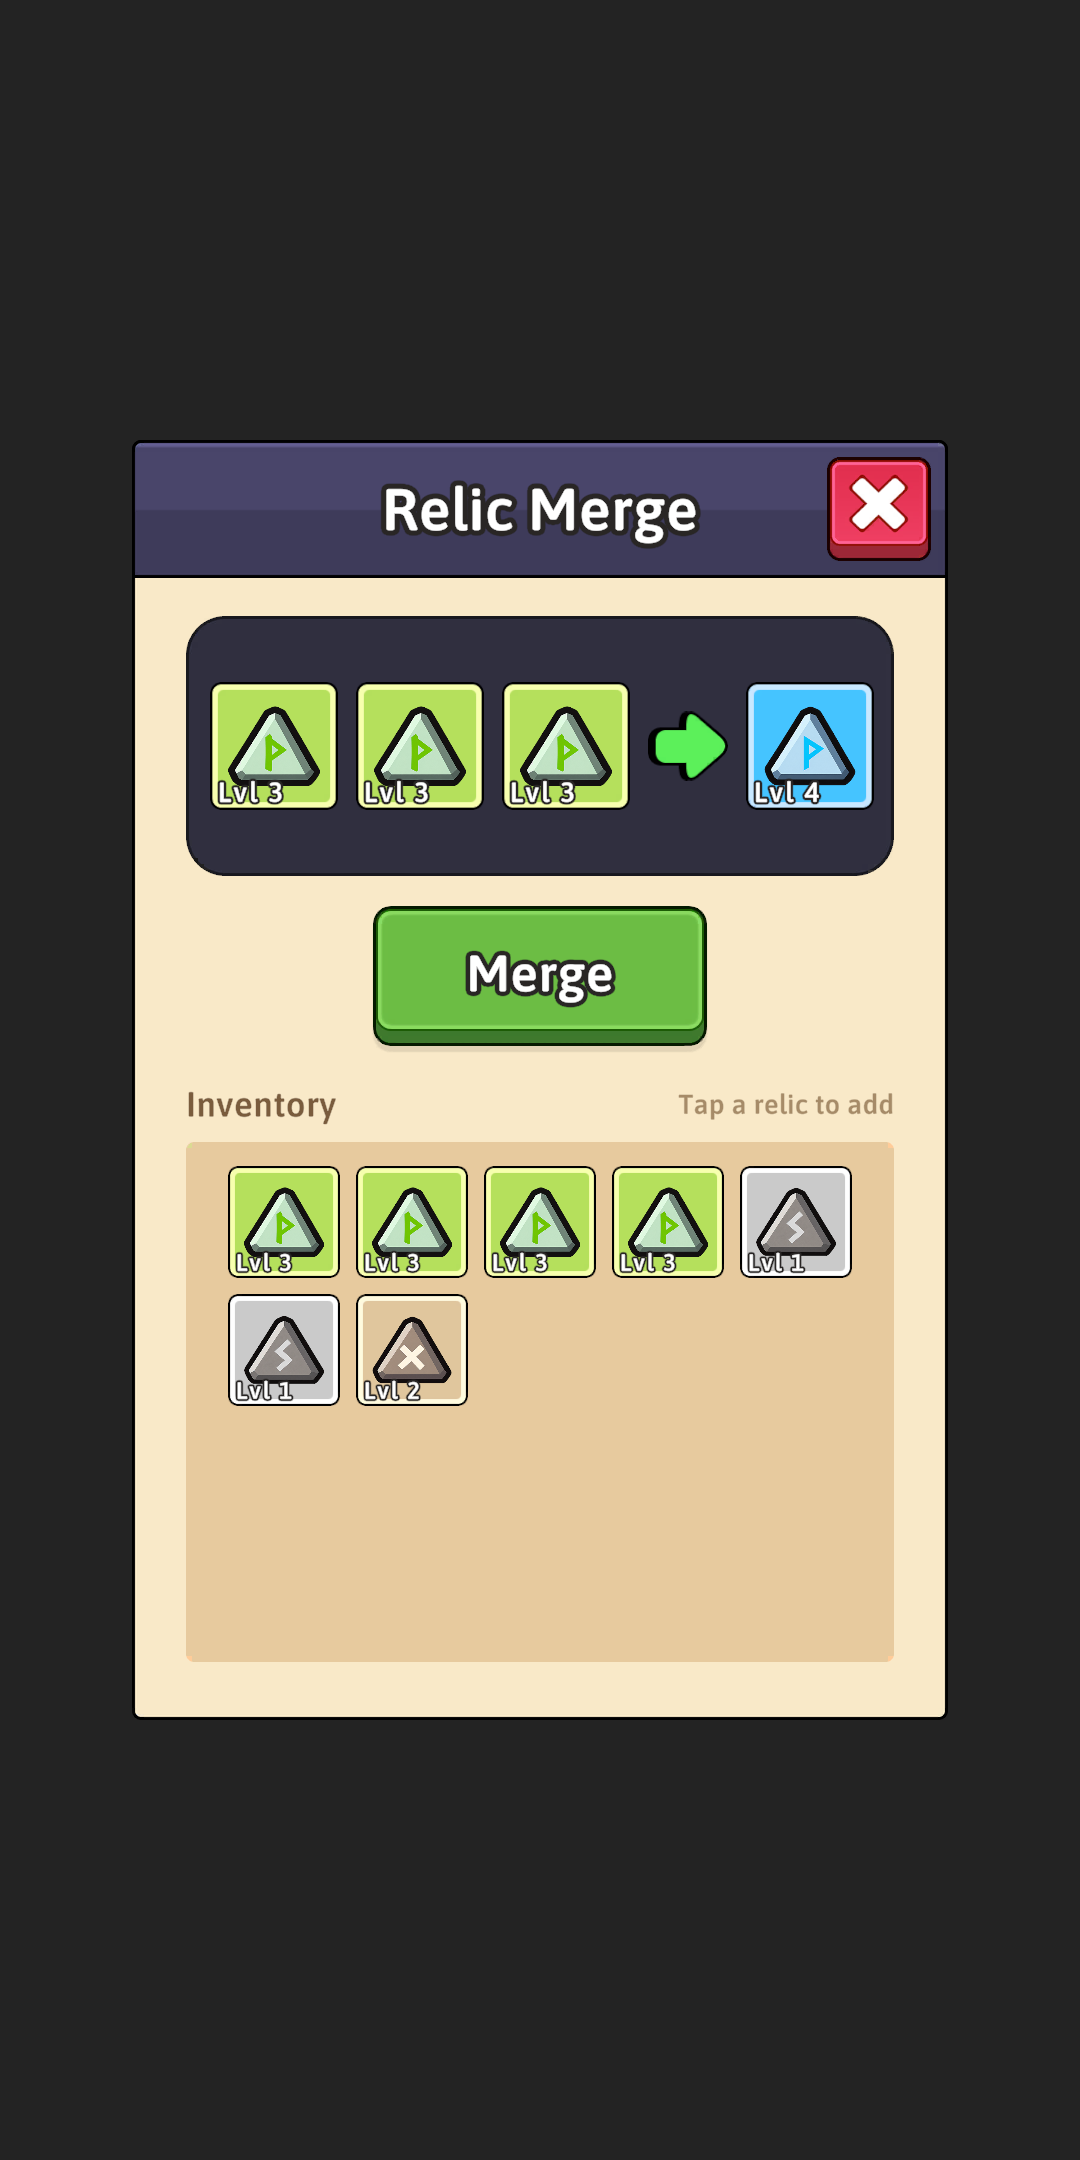
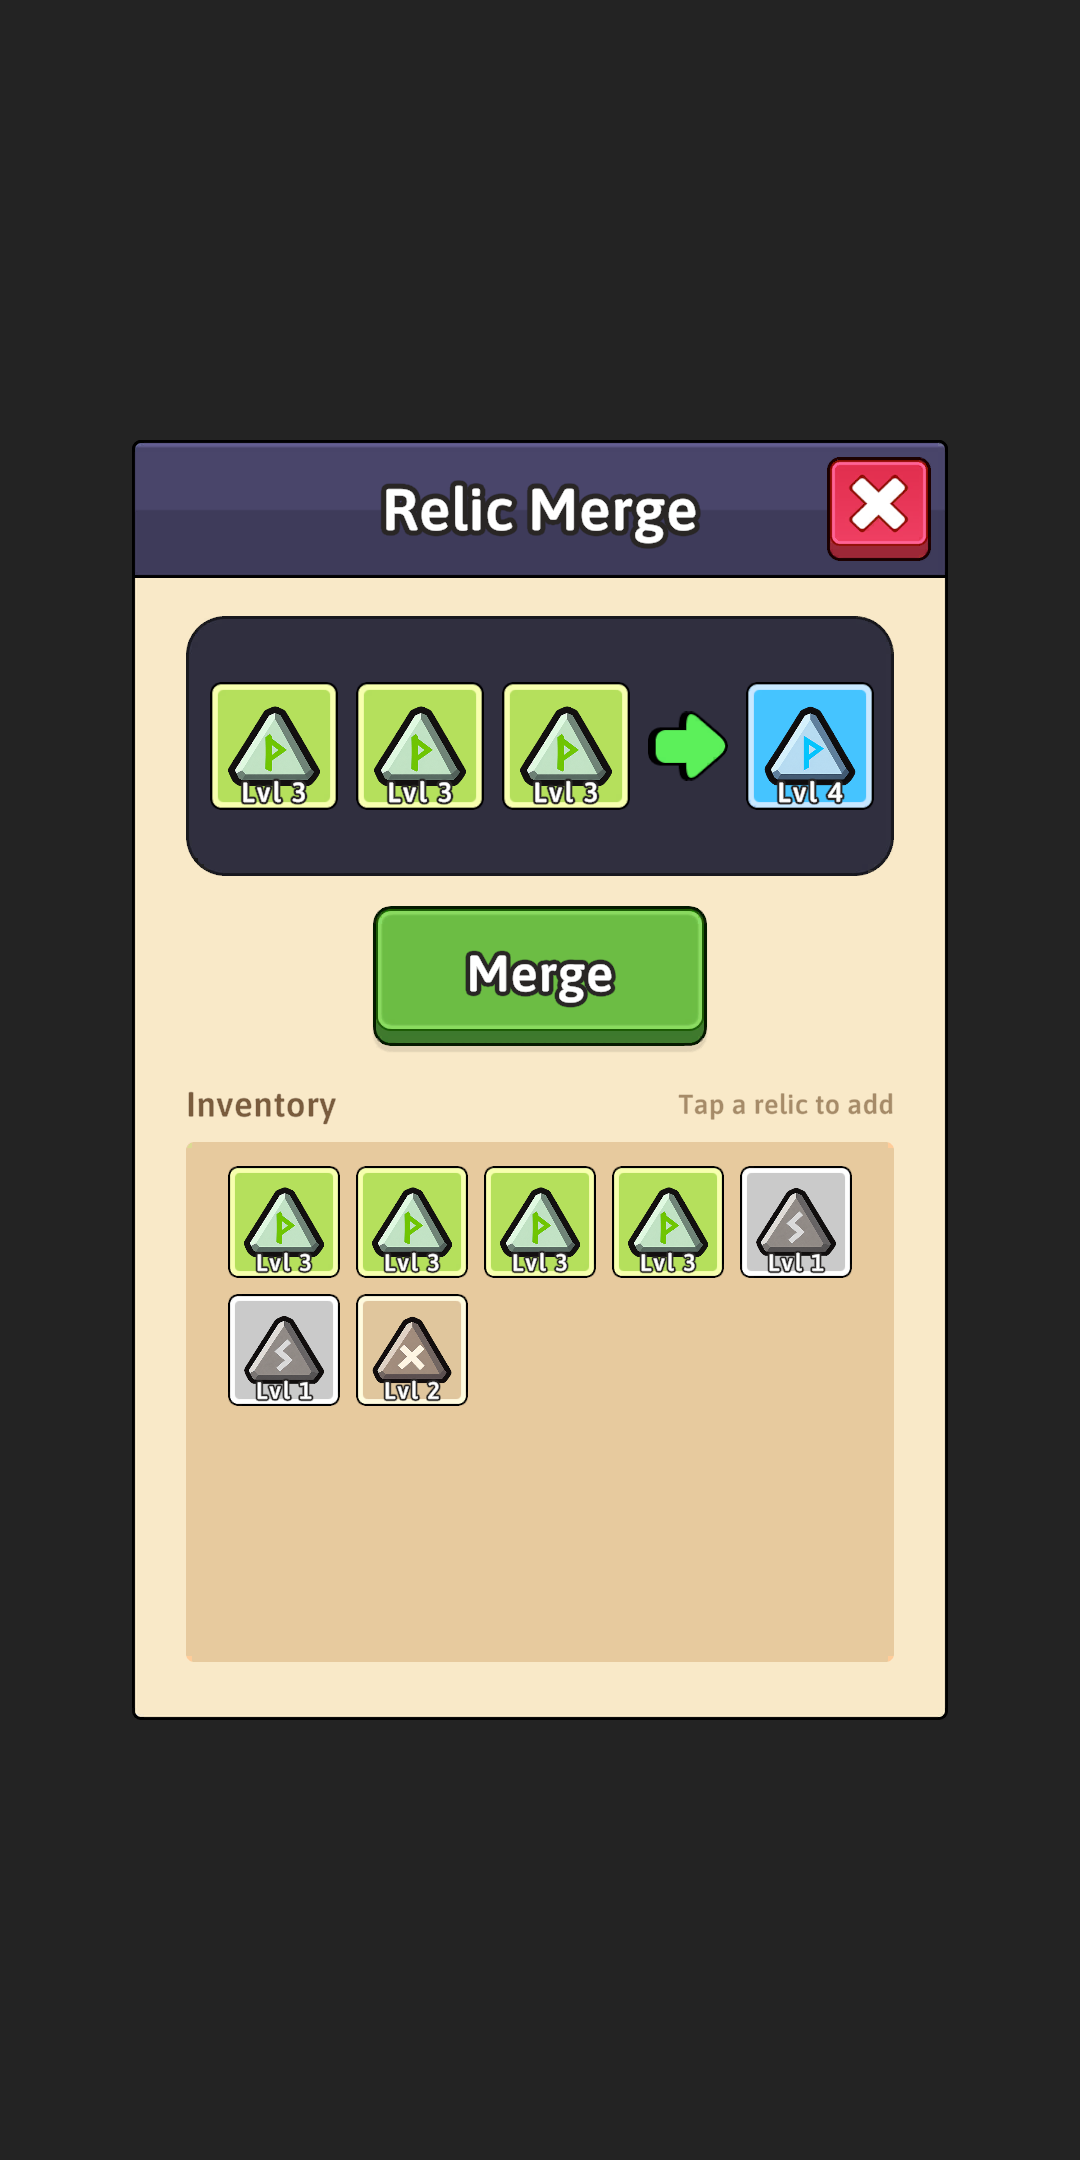
Căn giữa chữ Lvl ô relic popup Relic Merge

diff --git a/2026DungeonRushUnity/Assets/_Assets/Scripts/Art/Editor/Batch4Reskin.cs b/2026DungeonRushUnity/Assets/_Assets/Scripts/Art/Editor/Batch4Reskin.cs
@@ -288,7 +288,7 @@ public static class Batch4Reskin
             Transform t = FindOrNull(cell.transform, name);
             if (t != null) t.gameObject.SetActive(false);
         }
-        if (cell.textLvl != null) CornerLevel(cell.textLvl, size >= 128f ? 28f : 24f);
+        if (cell.textLvl != null) BottomLevel(cell.textLvl, size >= 128f ? 28f : 24f);
     }
     #endregion
 
@@ -1011,6 +1011,22 @@ public static class Batch4Reskin
         rt.localScale = Vector3.one;
         PopupStyle.Outline(text, size, size * 0.7f);
         text.alignment = TextAlignmentOptions.BottomLeft;
+        text.enableWordWrapping = false;
+        text.transform.SetAsLastSibling();
+    }
+
+    // "Lvl N" chữ viền căn giữa đáy ô (ô relic — user chốt 2026-11-12).
+    private static void BottomLevel(TMP_Text text, float size)
+    {
+        RectTransform rt = text.rectTransform;
+        rt.anchorMin = new Vector2(0f, 0f);
+        rt.anchorMax = new Vector2(1f, 0f);
+        rt.pivot = new Vector2(0.5f, 0f);
+        rt.sizeDelta = new Vector2(0f, size + 10f);
+        rt.anchoredPosition = new Vector2(0f, 2f);
+        rt.localScale = Vector3.one;
+        PopupStyle.Outline(text, size, size * 0.7f);
+        text.alignment = TextAlignmentOptions.Bottom;
         text.enableWordWrapping = false;
         text.transform.SetAsLastSibling();
     }
